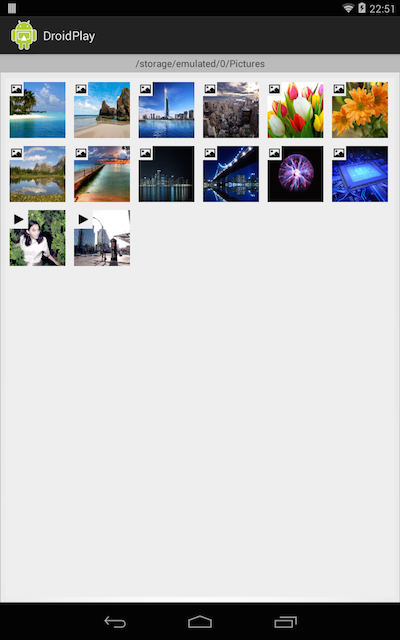
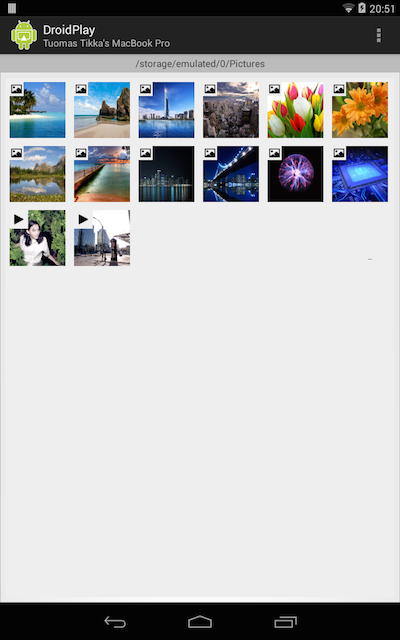
updated screenshots and README

Changed region(s): [[0.09, 0.0312, 0.42, 0.0938], [0.93, 0.0312, 0.96, 0.0625]]

diff --git a/README.md b/README.md
@@ -28,6 +28,8 @@ Screenshots
 
 ![ScreenShot](/screenshots/ss-2.png)
 
+![ScreenShot](/screenshots/ss-3.png)
+
 Instructions
 ------------
 
